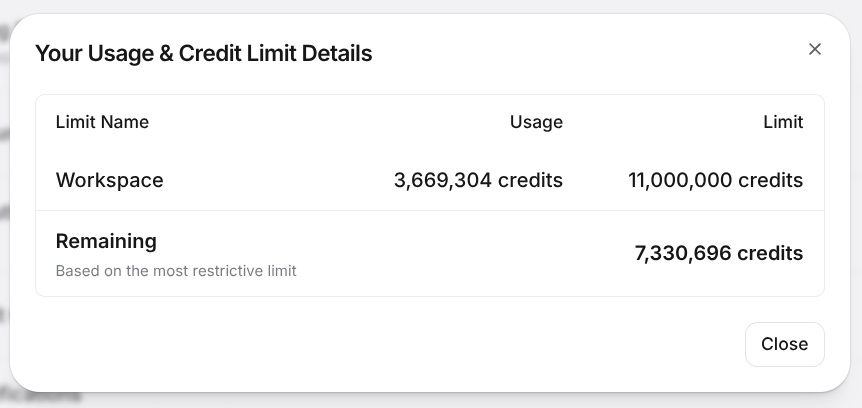
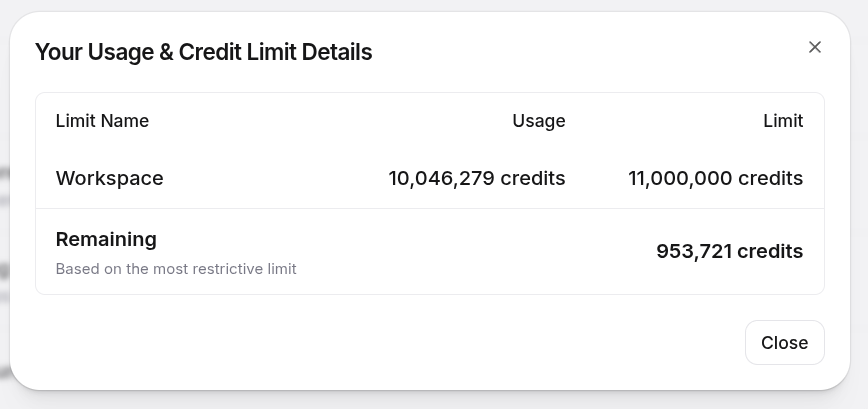
Update ElevenLabs article with dubbing fixes

diff --git a/content/2026/04/09/como-a-elevenlabs-nao-foi-morta-pelo-qwen3-tts/index.md b/content/2026/04/09/como-a-elevenlabs-nao-foi-morta-pelo-qwen3-tts/index.md
@@ -196,7 +196,7 @@ O que salvou o orçamento nessa arquitetura é que cada chunk fica salvo individ
 
 Isso é o que viabilizou as iterações. Eu rodava o batch, escutava trechos, identificava um problema (tradução longa demais, snippet de código que o TTS não conseguia pronunciar, chunking que cortou num ponto ruim), corrigia o SRT ou ajustava os parâmetros do chunker, e rodava de novo. Cada re-run consumia uma fração dos créditos e do tempo do run original, porque só os chunks alterados eram regenerados. Sem esse cache, cada iteração teria custado quase o mesmo que a primeira rodada, e o custo total do batch teria sido duas ou três vezes maior.
 
-A parte que dói no bolso é exatamente essa mudança de chunking por parágrafo. Como as fronteiras dos chunks mudaram, o cache antigo deixou de servir. Mesmo que o texto traduzido seja quase o mesmo, o áudio precisa ser gerado de novo porque agora cada chamada ao TTS tem outro começo, outro fim, outro contexto e outra prosódia. Então, sim: estou rodando uma segunda geração completa dos 146 episódios. Vai queimar crédito de novo. Mas é o tipo de gasto que muda o resultado final de "tecnicamente alinhado" pra "dá pra ouvir uma hora sem sentir que tem um robô tropeçando em pausas de legenda".
+A parte que dói no bolso é exatamente essa mudança de chunking por parágrafo. Como as fronteiras dos chunks mudaram, o cache antigo deixou de servir. Mesmo que o texto traduzido seja quase o mesmo, o áudio precisa ser gerado de novo porque agora cada chamada ao TTS tem outro começo, outro fim, outro contexto e outra prosódia. Então, sim: isso forçou uma segunda geração completa dos 146 episódios. Queimou crédito de novo. Mas foi o tipo de gasto que mudou o resultado final de "tecnicamente alinhado" pra "dá pra ouvir uma hora sem sentir que tem um robô tropeçando em pausas de legenda".
 
 ### Quando o `atempo` não salva: reescrevendo cue antes do TTS
 
@@ -326,33 +326,51 @@ ffmpeg -i final_en.mp3 \
 
 Duas passadas em vez de uma porque o modo de passada única roda em compressão dinâmica e acaba "bombeando" o ganho em trechos com muito silêncio. Com `linear=true` na passada 2, o ganho fica estático em cima das medições da passada 1, então não tem bombeamento. O resultado pousa dentro de ±0.1 LU do alvo, que é praticamente inaudível. O filtro `highpass=f=80` na frente derruba rumble de ar-condicionado e hum de rede elétrica abaixo de 80 Hz, que o ouvido humano não escuta mas mexe nas medições de pico.
 
-### Detectando e encaixando os jingles de abertura
+### O ponto em que eu achei que estava pronto. E não estava.
 
-Um problema que eu não antecipei: a maioria dos episódios do Akitando começa com um jingle de abertura, aquele trecho instrumental de 3 a 6 segundos antes do apresentador falar. No vídeo original, o jingle tá embutido na trilha de áudio. Na versão dublada, a pipeline gera só a voz — o jingle simplesmente desaparece.
+Aqui entra a parte mais chata, e mais educativa, do projeto.
 
-A solução foi automatizar a detecção e o splice. A pipeline tem três jingles de referência gravados (o jingle original dos primeiros episódios, uma variação do ep143 e o jingle mais recente do ep121 em diante) e usa correlação cruzada normalizada via FFT pra encontrar onde cada jingle aparece nos primeiros 450 segundos do áudio do vídeo original. O algoritmo aplica uma máscara de energia por janela deslizante pra silenciar regiões abaixo de 1% da energia média, evitando que trechos silenciosos gerem falsos positivos com correlação acima de 1.0. Aceita match se o pico de correlação atinge pelo menos 0.5.
+Eu realmente achei que tinha acertado a mão na primeira grande rodada. A pipeline fechou os 146 episódios, eu subi tudo, e parecia resolvido. A duração batia, os arquivos estavam todos lá, o processo inteiro tinha finalmente atravessado o lote completo de quase 96 horas de vídeo. Só que foi justamente depois do upload que comecei a perceber problemas que eu simplesmente não tinha antecipado.
 
-Detectado o jingle, o splice precisa acontecer no lugar certo. A abordagem ingênua seria cortar o áudio na posição exata do original, mas isso cortaria a voz do narrador no meio da frase. A sacada é aproveitar os silêncios naturais que já existem entre os chunks gerados — o assembler sempre deixa uma pausa de pelo menos 0.3 a 0.6 segundos entre chunks quando o TTS termina antes da janela alvo. A pipeline procura uma janela de silêncio com pelo menos 0.3 segundos dentro de ±8 segundos da posição detectada e substitui esse silêncio pelo jingle. As fronteiras voz-jingle e jingle-voz recebem crossfade de 80 ms pra evitar cliques. A diferença de duração (o jingle costuma ser mais longo que o silêncio que ele substitui) é absorvida pelo `atempo` final, que já roda como último passo da masterização. De 146 episódios, 121 usam o jingle original, 23 usam o jingle recente, 1 usa a variação e 1 não tem jingle nenhum.
+O primeiro susto foi a situação dos jingles. Eu já sabia que muitos episódios do Akitando começam com aquele jingle instrumental curto antes de eu começar a falar, mas subestimei o problema. O `.srt` do YouTube praticamente não ajuda nisso, porque jingle não é fala. Às vezes ele marca como `[Música]`, às vezes não marca nada útil, às vezes a janela fica torta. Na primeira montagem, teve episódio onde o jingle sumiu, episódio onde ele entrou duplicado, e episódio onde o source-fill do áudio original já trazia o jingle certo e o meu splice vinha por cima, empurrando todo o resto pra frente. Foi o tipo de bug que só aparece quando você para pra escutar a master final de verdade, não quando olha só pra duração total.
 
-## Os números do batch de dublagem (meu cálculo inicial estava errado)
+A solução foi abandonar a esperança de que a legenda me diria onde estava o jingle e ir direto pra fonte. Montei um detector usando os próprios áudios originais dos vídeos e jingles de referência, com auditoria e repair pass em cima dos masters já gerados. Isso acabou virando um mini-sistema próprio: detector, auditoria, reassemble por cache, correção por janela exata. No fim dessa novela, o batch de episódios alterados caiu num conjunto de reupload bem definido e o problema dos jingles ficou finalmente sob controle. Foi um daqueles casos clássicos de produção: a primeira solução parecia suficiente até bater no acervo inteiro.
 
-Tenho que me corrigir. Quando comecei a escrever esse post, fiz a conta assumindo Pro ($99/mês, 500 mil créditos inclusos, overage a $0.24 por mil caracteres) pra um batch de 5,5 milhões de caracteres, e cheguei em ~$1.313. Essa era a estimativa ingênua.
+Só que aí veio a segunda pancada, e essa foi mais cara: eu tinha esquecido de um detalhe fundamental sobre legendas de YouTube. SRT é feita pra ser lida na tela, não pra virar roteiro de fala. Então uma ideia que no meu texto original era um parágrafo inteiro aparecia quebrada em várias cues pequenas, cada uma com sua microjanela de tempo. Na primeira versão da pipeline eu estava usando essas cues como unidade de geração na ElevenLabs. Resultado: o TTS gerava áudio em blocos coerentes localmente, mas a montagem introduzia silêncios artificiais no meio da frase. Tecnicamente alinhado, humanamente esquisito.
 
-A conta veio bem diferente. Comecei com Pro ontem de tarde, queimei os 500 mil créditos inclusos nas primeiras horas, e o overage disparou. Subi pro Scale ($330/mês, 2 milhões de créditos, overage a $0.18). Algumas horas depois, **o Scale também depletou**. Pulei direto pro Business ($1.320/mês, 11 milhões de créditos, overage a $0.12), onde o batch finalizou. Somando as três mensalidades, o custo total ficou em **$1.749** ($99 + $330 + $1.320), sujeito a como a ElevenLabs prorrateia as trocas no meio do ciclo. O batch consumiu 3,67 milhões de créditos dos 11 milhões do plano Business, depois de ter queimado os 500 mil do Pro e os 2 milhões do Scale — 6,17 milhões de créditos no total:
+O conserto foi doloroso porque exigiu voltar várias casas. Em vez de respeitar a estrutura das cues do SRT, precisei voltar pros meus textos originais e reconstruir o chunking com base nos parágrafos que eu realmente li quando gravei os vídeos. Quase todo episódio do Akitando tem o post correspondente com a seção `## Script`, e isso salvou o projeto. Como eu fui meticuloso na época em que produzi os vídeos — escrevendo os roteiros antes, lendo exatamente aquilo na gravação e arquivando tanto os vídeos quanto os scripts — eu tinha a fonte de verdade. Então deu pra mapear os parágrafos do script aos timings do `.pt-BR.srt`, reagrupar o `.en.srt` em cima disso e regenerar os chunks no formato certo.
 
-![Dashboard da ElevenLabs mostrando 3.669.304 créditos consumidos de 11.000.000](elevenlabs-credits-dashboard.png)
+O problema é que essa mudança destrói o cache anterior. Mesmo quando o texto quase não muda, se a fronteira do chunk muda, a chamada ao TTS muda junto: muda contexto, muda prosódia, muda começo, muda fim. Então não era um retoquezinho. Era uma regeneração completa de tudo de novo. Foi aí que o custo começou a sair do meu controle inicial.
 
-Bem mais caro do que eu tinha estimado.
+E quando eu achei que agora sim tinha terminado, veio a terceira paulada: os clipes externos. Muitos vídeos do canal têm trechos inseridos de outras fontes. No episódio de Ruby on Rails, por exemplo, tem 37signals, Apple, comerciais, pedaços externos no meio da narrativa. O `.srt` do YouTube não sabia lidar direito com isso. Em alguns pontos ele simplesmente alucinava texto, em outros os timings ficavam completamente tortos, em outros a fala original não tinha nada a ver com a legenda que eu estava usando de base. De novo: olhando só pra automação parecia tudo bem; escutando a master final, não estava.
 
-E o custo não para na ElevenLabs. Todo o trabalho de curadoria das legendas, reescrita de cues problemáticas, reconstrução de SRTs truncadas e o emotion tagger rodaram via Claude Code com o plano Claude Max 20×. Somando esse esforço com a tradução em massa do blog pra inglês que eu descrevi no [artigo de aniversário](/2026/04/09/20-anos-de-blog-o-ano-em-que-a-ia-finalmente-me-deixou-traduzir-tudo/), o limite semanal do Claude Max 20× bateu 100%, com gastos extras acima de R$ 300 em cima. Pra quem acha que IA generativa é de graça depois que assina o plano: os boletos discordam.
+A correção, mais uma vez, foi sair da legenda e voltar pro material original. Montei um detector de janelas de clipe externo a partir de gaps de alinhamento entre transcript, `.pt-BR.srt`, cues sem fala útil e chunks que atravessavam essas janelas. Depois, em vez de tentar dublar o que não fazia sentido dublar, o processo passou a recuperar o áudio original do vídeo exatamente nesses trechos e preencher a master com o source correto. Foi isso que consertou os casos de 37signals, Apple Education, comercial de Mac vs PC e outros inserts parecidos que eu tinha esquecido que existiam.
 
-Olhando pro lado bom, são 96 horas de conteúdo técnico — meu acervo acumulado de **5 anos de canal**. Dá $10 a $12 por episódio de uma hora. Pra dublagem feita à mão em estúdio profissional com ator, a mesma quantidade sairia por dezenas de milhares de dólares só pela narração. Se fosse pra pagar $1.800 por uma temporada nova, eu pensaria duas vezes. Mas pra converter 5 anos de acervo de uma vez e abrir o canal pra audiência internacional, vale a pena.
+Esse foi o aprendizado mais importante dessa segunda metade do projeto: automação te leva muito longe, mas o acervo completo sempre tem mais cantos escuros do que você imagina no primeiro passe.
 
-O outro problema é o tempo. Cada episódio leva uns 20 minutos pra rodar, mesmo paralelizando várias chamadas (aumentei o paralelismo depois que subi pra Business, que permite mais). O primeiro batch inteiro levou pouco menos de dois dias pra completar. Resultado daquela rodada: **146 de 146 episódios dentro de ±1 segundo da duração do YouTube original**. Desses, 144 passaram automaticamente pelo length-fit da pipeline sem intervenção nenhuma. Três (ep006, ep009, ep020) bateram no teto antigo de 1.05× do `atempo` e tiveram que ser ajustados manualmente pro comprimento exato do vídeo — subi o `MAX_ATEMPO_RATIO` pra 1.08 depois disso pra que rodadas futuras não esbarrem no mesmo limite. Zero chunks falharam no batch inteiro: nenhum retry por alucinação, nenhum áudio rejeitado pelo sanity check.
+## Os números do batch de dublagem (e por que doeu mais do que eu imaginei)
 
-Só que "dentro de ±1 segundo" mede duração, não naturalidade. Antes de subir tudo pro YouTube, veio essa percepção das pausas artificiais criadas por cues pequenas demais. Traduzindo: a primeira rodada provou que a pipeline fecha 146 episódios ponta a ponta; a segunda rodada, com chunking por parágrafo, está regenerando todos os áudios pra deixar a fala mais contínua. É mais caro e chato, mas ainda é melhor descobrir isso antes do upload do que depois de publicar 96 horas de dublagem com respiro esquisito no meio de frase.
+Eu preciso me corrigir de novo. Não errei só a primeira conta. Errei também o grau de confiança que eu tinha depois da primeira rodada.
 
-Depois dessa segunda rodada, falta subir os arquivos de áudio em inglês pra cada vídeo, aproveitando o suporte do YouTube pra [múltiplas trilhas de áudio por vídeo](https://support.google.com/youtube/answer/13338784).
+Quando subi pro plano Business da ElevenLabs, eu achei que finalmente estaria com folga. Na prática, não fiquei. O screenshot mais recente do dashboard mostra **10.046.279 créditos consumidos de um limite de 11.000.000**, sobrando **953.721**:
+
+![Dashboard da ElevenLabs mostrando 10.046.279 créditos consumidos de 11.000.000](elevenlabs-credits-dashboard.png)
+
+Em português claro: eu torrei mais de 91% do limite do workspace Business. E isso ajuda a entender o que "10 milhões de créditos" realmente significa nesse contexto. Não é só "renderizei 146 episódios uma vez". É renderizar 146 episódios, descobrir um problema estrutural, voltar, corrigir, regenerar chunks, descobrir outro problema estrutural, voltar, reconstruir masters, auditar jingles, reparar janelas de clipes externos, reupar de novo. Cada rodada a mais custa. E quando a mudança invalida o cache, custa muito.
+
+O custo também não para na ElevenLabs. Todo o trabalho de curadoria das legendas, reescrita de cues problemáticas, reconstrução de SRTs truncadas, auditorias de jingle, detector de clipes externos e o resto rodou via Claude Code no plano Claude Max 20×. Somando isso com a tradução em massa do blog pra inglês que eu descrevi no [artigo de aniversário](/2026/04/09/20-anos-de-blog-o-ano-em-que-a-ia-finalmente-me-deixou-traduzir-tudo/), o limite semanal do Claude Max 20× bateu 100%, com gasto extra acima de R$ 300. Pra quem acha que IA generativa vira grátis depois que você assinou o plano, os boletos discordam.
+
+Mesmo assim, continuo achando que vale a pena. Estamos falando de 146 episódios, quase 96 horas de conteúdo técnico, mais de 5 anos de acervo do canal. Fazer isso manualmente em estúdio, com ator, direção, pickup e revisão humana em tudo, custaria uma ordem de grandeza completamente diferente.
+
+O que mudou foi minha visão do projeto. No começo eu tava olhando pra isso como "um batch grande". No fim, era outra coisa. Era mexer num acervo inteiro, achar exceção escondida, consertar ferrugem antiga, refazer master, rerender, reouvir.
+
+O primeiro batch completo levou pouco menos de dois dias e me fez pensar que eu tinha resolvido tudo. Não tinha. A segunda rodada, com chunking por parágrafo, já foi cara. A terceira, com os reparos de jingle e os consertos de masters, mais cara ainda. E a quarta pancada veio dos clipes externos que eu não tinha modelado direito na primeira automação.
+
+Mas agora, finalmente, eu acho que acabou. Ou melhor: eu espero que tenha acabado. Tudo foi enviado de novo, pela última vez. Não está perfeito no sentido absoluto da palavra. Está tão bom quanto eu consigo deixar com script, auditoria e automação, sem entrar num inferno de intervenção manual vídeo por vídeo.
+
+E se isso tudo foi possível, é porque anos atrás eu tive a disciplina de produzir os vídeos do jeito certo: escrever primeiro, ler o roteiro quando gravava, e arquivar os materiais depois. Sem os vídeos originais e sem os scripts originais, eu não teria como descobrir onde o `.srt` mentia, onde o timing estava torto, onde o clipe externo entrava, onde o parágrafo original começava e terminava. Essa organização antiga foi o que permitiu consertar o projeto agora.
+
+Então sim: a dublagem dos 146 episódios está pronta. Não perfeita. Mas fechada. Pelo menos, eu sinceramente espero que agora sim esteja.
 
 ## O primeiro teste, assista
 

diff --git a/content/2026/04/09/como-a-elevenlabs-nao-foi-morta-pelo-qwen3-tts/index.en.md b/content/2026/04/09/como-a-elevenlabs-nao-foi-morta-pelo-qwen3-tts/index.en.md
@@ -197,7 +197,7 @@ What saved the budget on this architecture is that each chunk lives on disk as i
 
 This is what made the iterations viable. I'd run the batch, listen to sections, spot a problem (translation too long, a code snippet the TTS couldn't pronounce, a chunk boundary that landed at a bad spot), fix the SRT or tweak the chunker parameters, and re-run. Each re-run consumed a fraction of the credits and time of the original run, because only the changed chunks were regenerated. Without this cache, every iteration would have cost nearly as much as the first pass, and the total batch cost would have been two or three times higher.
 
-The part that hurts the wallet is this paragraph-aware chunking change. Since the chunk boundaries changed, the old cache stopped being useful. Even if the translated text is almost the same, the audio has to be generated again because every TTS call now has a different start, a different end, different context, and different prosody. So yes: I'm running a second full generation across all 146 episodes. It's going to burn credits again. But this is the kind of spend that moves the final result from "technically aligned" to "you can listen for an hour without feeling a robot trip over caption pauses."
+The part that hurts the wallet is this paragraph-aware chunking change. Since the chunk boundaries changed, the old cache stopped being useful. Even if the translated text is almost the same, the audio has to be generated again because every TTS call now has a different start, a different end, different context, and different prosody. So yes: this forced a second full generation across all 146 episodes. It burned credits again. But this is the kind of spend that moved the final result from "technically aligned" to "you can listen for an hour without feeling a robot trip over caption pauses."
 
 ### When `atempo` can't save you: rewriting cues before TTS
 
@@ -327,33 +327,51 @@ ffmpeg -i final_en.mp3 \
 
 Two passes instead of one because single-pass mode runs in dynamic compression and ends up "pumping" the gain during silent stretches. With `linear=true` on pass 2, the gain stays static on top of the pass-1 measurements, so no pumping. The result lands within ±0.1 LU of the target, which is effectively inaudible. The `highpass=f=80` filter in front kills HVAC rumble and mains hum below 80 Hz, which the human ear doesn't catch but will move peak measurements around.
 
-### Detecting and splicing the intro jingles
+### The point where I thought it was done. And it wasn't.
 
-A problem I didn't anticipate: most Akitando episodes open with an intro jingle, that 3-to-6-second instrumental clip before the presenter starts talking. In the original video, the jingle is baked into the audio track. In the dubbed version, the pipeline generates only voice — the jingle just vanishes.
+This is where the most annoying, and most educational, part of the project starts.
 
-The fix was to automate detection and splicing. The pipeline has three reference jingles on file (the original jingle from the earliest episodes, a variant from ep143, and the newer jingle from ep121 onward) and uses normalized FFT cross-correlation to find where each jingle appears in the first 450 seconds of the source video's audio. The algorithm applies a sliding-window energy mask to silence regions below 1% of the mean energy, preventing silent stretches from producing false positives with correlation above 1.0. A match is accepted only when the peak correlation reaches at least 0.5.
+I really thought I had nailed it on the first big pass. The pipeline closed all 146 episodes, I uploaded everything, and it looked done. The durations matched, the files were all there, and the whole process had finally crossed the complete batch of nearly 96 hours of video. But it was exactly after that upload that I started noticing problems I simply had not anticipated.
 
-Once the jingle is detected, the splice has to land in the right spot. The naive approach would be cutting the audio at the exact position from the original, but that would slice through the narrator's voice mid-sentence. The trick is to exploit the natural silences that already exist between generated chunks — the assembler always leaves at least a 0.3-to-0.6-second gap between chunks whenever the TTS finishes earlier than the target window. The pipeline searches for a silence window of at least 0.3 seconds within ±8 seconds of the detected position and replaces that silence with the jingle. The voice-jingle and jingle-voice boundaries get 80 ms crossfades to avoid clicks. The duration difference (the jingle is usually longer than the silence it replaces) gets absorbed by the final `atempo` pass that already runs as the last mastering step. Out of 146 episodes, 121 use the original jingle, 23 use the newer one, 1 uses the variant, and 1 has no jingle at all.
+The first scare was the jingle situation. I already knew many Akitando episodes begin with that short instrumental intro before I start talking, but I underestimated how much trouble it would cause. YouTube's `.srt` is almost useless here, because a jingle is not speech. Sometimes it marks `[Music]`, sometimes it gives you nothing useful, sometimes the window is just wrong. In the first assembly pass, some episodes lost the jingle entirely, some got it doubled, and in others the source-fill from the original audio already contained the right jingle and my splice came in on top of it, pushing everything else forward. This was the kind of bug you only catch when you sit down and actually listen to the final mastered file, not when you just look at total duration.
 
-## The dubbing batch numbers (my initial math was wrong)
+The fix was to stop hoping the subtitle would tell me where the jingle was and go straight to the source. I built a detector using the original video audio itself plus reference jingles, with an audit and repair pass on top of the mastered outputs already generated. That eventually became a small subsystem of its own: detector, audit, cached reassembly, exact-window repair. At the end of that detour, the set of changed episodes collapsed into a well-defined reupload bucket and the jingle problem finally came under control. It was one of those classic production moments: the first solution looked good enough until it hit the whole archive.
 
-I have to correct myself. When I started writing this post, I did the math assuming Pro ($99/month, 500k credits included, overage at $0.24 per thousand characters) across a batch of 5.5 million characters, and landed on ~$1,313. That was the naive estimate.
+Then came the second punch, and this one was more expensive: I had forgotten a basic fact about YouTube subtitles. SRT is built to be read on screen, not to become spoken script. So an idea that was a full paragraph in my original text showed up split into several small cues, each with its own micro time window. In the first version of the pipeline I was using those cues as the generation unit for ElevenLabs. The result was TTS audio that was coherent locally, but the final assembly inserted artificial silences in the middle of sentences. Technically aligned, humanly weird.
 
-The bill came in pretty different. I started on Pro yesterday afternoon, burned through the 500k credits in the first few hours, and the overage started climbing fast. I bumped up to Scale ($330/month, 2 million credits, overage at $0.18). A few hours later, **Scale depleted too**. Jumped straight to Business ($1,320/month, 11 million credits, overage at $0.12), which is where the batch finished. Adding up the three monthly fees, the total came to **$1,749** ($99 + $330 + $1,320), subject to how ElevenLabs prorates the mid-cycle upgrades. The batch consumed 3.67 million credits out of the Business plan's 11 million, on top of having burned through Pro's 500k and Scale's 2 million — 6.17 million credits total:
+Fixing that hurt because it meant walking several steps back. Instead of respecting the cue structure of the SRT, I had to go back to my original scripts and rebuild chunking around the paragraphs I had actually read when recording the videos. Almost every Akitando episode has a matching blog post with a `## Script` section, and that is what saved the project. Because I had been meticulous back when I made those videos — writing the scripts first, reading exactly that on camera, and archiving both the videos and the scripts — I had a source of truth. That made it possible to map the script paragraphs onto the timings in the `.pt-BR.srt`, regroup the `.en.srt` on top of that, and regenerate the chunks in the right structure.
 
-![ElevenLabs dashboard showing 3,669,304 credits consumed out of 11,000,000](/2026/04/09/como-a-elevenlabs-nao-foi-morta-pelo-qwen3-tts/elevenlabs-credits-dashboard.png)
+The problem is that this destroys the previous cache. Even when the text barely changes, if the chunk boundary changes then the TTS call changes too: different context, different prosody, different beginning, different ending. So this was not a touch-up. It was a full regeneration of everything again. That was the point where the cost started escaping my original estimate.
 
-Substantially more than I'd estimated.
+And just when I thought now it really was over, the third hit landed: external clips. Many videos on the channel include inserted footage from other sources. The Ruby on Rails episode, for example, has 37signals clips, Apple material, commercials, external inserts in the middle of the narrative. YouTube's `.srt` did not know what to do with that. In some places it simply hallucinated text, in others the timings were completely wrong, and in others the original speech had nothing to do with the subtitle I was using as ground truth. Again: if you only look at the automation, it looks fine; if you actually listen to the final master, it isn't.
 
-And the cost doesn't stop at ElevenLabs. All the subtitle curation, problematic cue rewrites, truncated SRT reconstruction, and the emotion tagger ran through Claude Code on the Claude Max 20× plan. Combined with the mass blog translation to English that I described in the [anniversary post](/en/2026/04/09/20-years-of-blogging-ai-finally-translated-everything/), the Claude Max 20× weekly limit hit 100%, with extra usage above BRL 300 on top. If you think generative AI is free once you've signed up for the plan, the invoices beg to differ.
+The fix, again, was to leave the subtitle behind and go back to the original material. I built an external-clip window detector based on alignment gaps between transcript, `.pt-BR.srt`, speechless cues and chunks that crossed those windows. Then, instead of trying to dub what made no sense to dub, the process started recovering the original audio from the source video exactly in those stretches and filling the master with the correct source audio there. That's what fixed the 37signals, Apple Education, Mac vs PC commercial and other inserted segments I had forgotten were even there.
 
-Looking on the bright side, this is 96 hours of technical content — my accumulated archive of **5 years of channel**. That's $10 to $12 per one-hour episode. For hand-dubbing at a professional studio with a voice actor, the same amount of content would run tens of thousands of dollars just for the narration. If the bill were $1,800 for a single new season, I'd think twice. But to convert 5 years of archive in one go and open the channel to international audiences, worth every penny.
+That was the biggest lesson from the second half of this project: automation takes you very far, but the full archive always has more dark corners than you imagine on the first pass.
 
-The other issue is time. Each episode takes around 20 minutes, even with several concurrent calls (I bumped concurrency up once I moved to Business, which allows more). The first full batch took just under two days to finish. Result from that pass: **146 out of 146 episodes within ±1 second of the original YouTube duration**. Of those, 144 were handled automatically by the pipeline's length-fit logic with zero intervention. Three (ep006, ep009, ep020) hit the old 1.05× `atempo` ceiling and had to be manually time-stretched to the exact video length — I bumped `MAX_ATEMPO_RATIO` to 1.08 after that so future runs won't hit the same wall. Zero chunks failed across the entire batch: no hallucination retries, no audio rejected by the sanity check.
+## The dubbing batch numbers (and why it hurt more than I expected)
 
-But "within ±1 second" measures duration, not naturalness. Before uploading everything to YouTube, that problem with artificial pauses from tiny cues became impossible to ignore. Translation: the first pass proved the pipeline can close all 146 episodes end to end; the second pass, with paragraph-aware chunking, is regenerating every audio file so the speech flows better. More expensive, more annoying, still better than discovering it after publishing 96 hours of dub with weird little breaths in the middle of sentences.
+I need to correct myself again. I didn't just miscalculate the first bill. I also overestimated how confident I should have been after the first full run.
 
-After that second pass, the next step is uploading the English audio files for each video, using YouTube's support for [multiple audio tracks per video](https://support.google.com/youtube/answer/13338784).
+When I upgraded to ElevenLabs Business, I thought I would finally have plenty of headroom. In practice, I didn't. The latest dashboard screenshot shows **10,046,279 credits consumed out of a limit of 11,000,000**, leaving **953,721**:
+
+![ElevenLabs dashboard showing 10,046,279 credits consumed out of 11,000,000](/2026/04/09/como-a-elevenlabs-nao-foi-morta-pelo-qwen3-tts/elevenlabs-credits-dashboard.png)
+
+In plain English: I burned through more than 91% of the Business workspace limit. And that helps explain what "10 million credits" really means in this context. It does not mean "I rendered 146 episodes once". It means rendering 146 episodes, discovering a structural problem, going back, fixing it, regenerating chunks, discovering another structural problem, going back again, rebuilding masters, auditing jingles, repairing external clip windows, uploading again. Every extra round costs money. And when the change invalidates the cache, it costs a lot.
+
+The cost also doesn't stop at ElevenLabs. All the subtitle curation, problematic cue rewrites, truncated SRT reconstruction, jingle audits, external clip detector work and the rest ran through Claude Code on the Claude Max 20× plan. Combined with the mass blog translation to English that I described in the [anniversary post](/en/2026/04/09/20-years-of-blogging-ai-finally-translated-everything/), the Claude Max 20× weekly limit hit 100%, with more than BRL 300 in extra usage on top. If you think generative AI becomes free once you've signed up for the plan, the invoices disagree.
+
+Even so, I still think it's worth it. We're talking about 146 episodes, almost 96 hours of technical content, more than 5 years of channel archive. Doing that manually in a studio, with an actor, direction, pickups and human review on everything, would cost a completely different order of magnitude.
+
+What changed was how I think about the project. At the start I was looking at this as "one very large batch". In the end it was something else. It was digging through a whole archive, finding hidden exceptions, fixing old rot, rebuilding masters, rerendering, relistening.
+
+The first full batch took a little under two days and made me think I had solved everything. I hadn't. The second pass, with paragraph-aware chunking, was already expensive. The third, with jingle repairs and mastered-output fixes, cost more again. And the fourth hit came from the external clips I had not modeled correctly in the first automation pass.
+
+But now, finally, I think it's done. Or rather: I hope it's done. Everything has been uploaded again, for the last time. It isn't perfect in the absolute sense of the word. It's as good as I can get it with scripts, audits and automation, without descending into manual-intervention hell episode by episode.
+
+And if all of this was possible, it's because years ago I had the discipline to produce the videos the right way: write first, read the script when recording, and archive the materials afterward. Without the original videos and without the original scripts, I would have had no way to discover where the `.srt` was lying, where the timing was wrong, where the external clip started, where the original paragraph began and ended. That old organization is what made it possible to repair the project now.
+
+So yes: the dub for all 146 episodes is done. Not perfect. But closed. At least, I sincerely hope this time it really is.
 
 ## The first test, watch it
 
